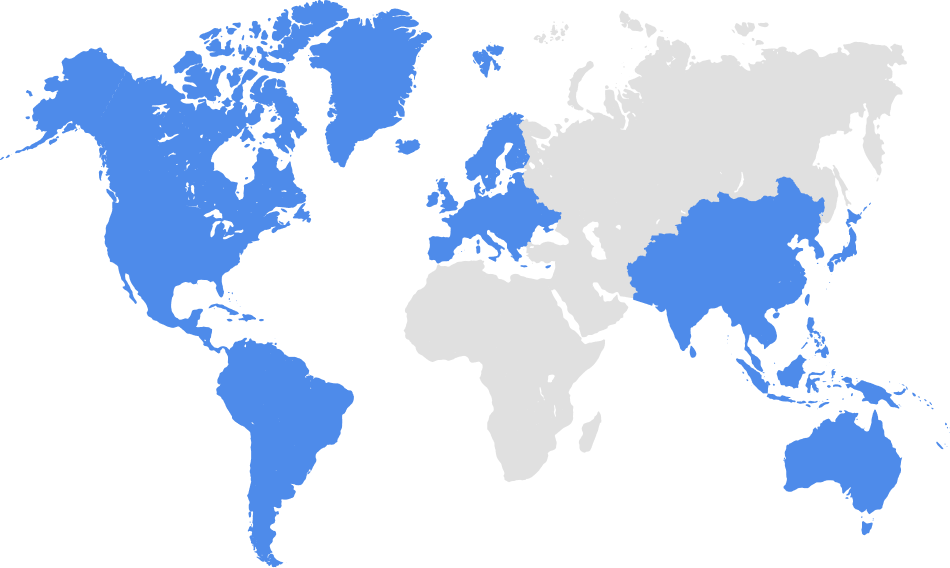
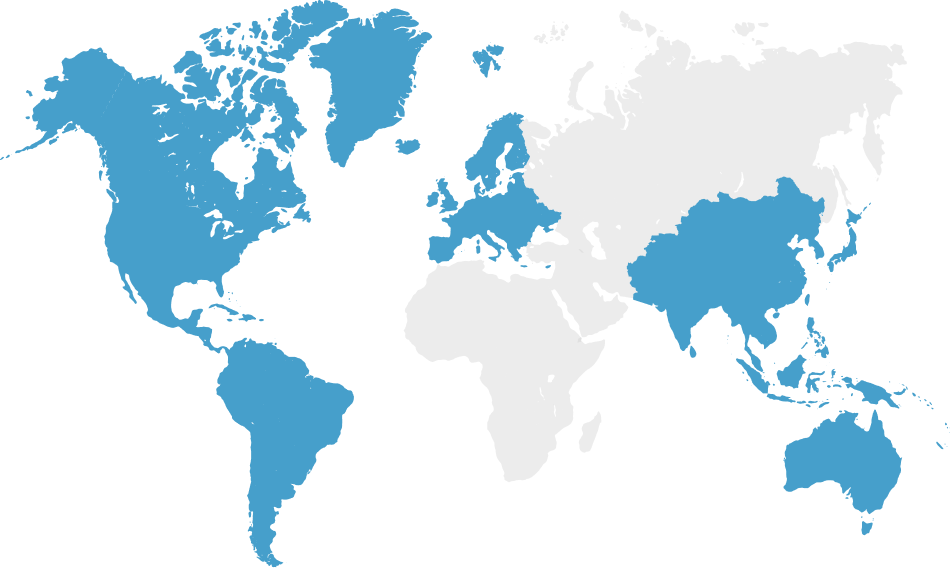
update world map img, change headline on mobile, remove numbers on homepage

diff --git a/src/assets/scss/responsive/_key-findings.scss b/src/assets/scss/responsive/_key-findings.scss
@@ -1,18 +1,4 @@
 @media (max-width: 1650px) {
-	
-	.use-cases-2 {
-
-		.img-wrap {
-
-			div {
-				padding-right: 55px;
-			}
-		}
-
-		.text-wrap {
-			max-width: 50%;
-		}
-	}
 
 	.quote-section {
 		
@@ -39,37 +25,6 @@
 			div {
 				display: flex;
 				align-items: center;
-			}
-		}
-	}
-
-	.dev-profiles-1 {
-
-		.img-wrap {
-			padding-top: 0;			
-
-			img {
-				height: 47vw;
-			}
-		}
-	}
-
-	.dev-profiles-2 {
-
-		.img-wrap {
-
-			div {
-				padding-right: 0;
-			}
-		}
-	}
-
-	.use-cases-2 {
-
-		.img-wrap {
-
-			div {
-				padding-right: 0;
 			}
 		}
 	}
@@ -137,13 +92,6 @@
 				display: flex;
 				align-items: flex-end;
 			}
-		}
-	}
-
-	.use-cases-3 {
-
-		.img-wrap {
-			width: 85%;
 		}
 	}
 
@@ -357,52 +305,6 @@
 		}
 	}
 
-	.dev-profiles-2 {
-		padding-bottom: 0;
-
-		.img-wrap {
-
-			img {
-				height: auto;
-				width: 100%;
-			}
-		}
-
-		.text-wrap {
-			margin-bottom: 30px;
-		}
-	}
-
-	.use-cases-2 {
-
-		.img-wrap {
-
-			img {
-				height: auto;
-				width: 100%;
-			}
-		}
-
-		.text-wrap {
-			margin-bottom: 30px;
-		}
-	}
-
-	.use-cases-3 {
-
-		.img-wrap {
-
-			img {
-				height: auto;
-				width: 100%;
-			}
-		}
-
-		.text-wrap {
-			margin-bottom: 30px;
-		}
-	}
-
 	.ecosystem-tools {
 		padding-bottom: 0;
 
@@ -436,6 +338,7 @@
 			}
 		}
 	}
+	
 	.row_section {
 		flex-direction: column;
 		height: 600px;
@@ -465,5 +368,10 @@
 	}
 	.quote-section > div:first-child {
 		padding-bottom: 100px;
+	}
+
+	.info-title {
+		font-size: 35px !important;
+		line-height: 42px !important;
 	}
 }

diff --git a/src/components/Section.js b/src/components/Section.js
@@ -40,7 +40,6 @@ class Section extends Component {
 
     fade = (is_visible) => {
         if (is_visible && this.number.current) {
-            this.number.current.classList.add('fadeIn');
             this.info.current.classList.add('fadeIn');
             this.description.current.classList.add('fadeIn');
         } else if (is_visible && this.text.current) {
@@ -56,11 +55,7 @@ class Section extends Component {
                     <VisibilitySensor partialVisibility={this.props.partialVisibility || false}
                                       onChange={this.fade} minTopValue={this.props.minTopValue} >
                         <div className="text">
-                            <p className={'number ' + (this.props.show_info ? '' : 'animated')}
-                               ref={this.number}
-                               style={this.props.show_info ? {opacity: 1} : {}}>
-                                { this.props.number }
-                            </p>
+                            <p ref={this.number}></p>
                             <p className={'info ' + (this.props.show_info ? '' : 'animated')} ref={this.info}
                                style={this.props.show_info ? {opacity: 1} : {}}>
                                 { this.props.info }

diff --git a/src/assets/scss/pages/_key-findings.scss b/src/assets/scss/pages/_key-findings.scss
@@ -103,66 +103,6 @@
 	}
 }
 
-.dev-profiles-1 {
-
-	.img-wrap {
-		padding-top: 30px;
-	}
-
-	.text-wrap {
-		max-width: 520px;
-		margin-left: auto;
-	}
-}
-
-.dev-profiles-2 {
-
-	.img-wrap {
-
-		div {
-			padding-top: 100px;
-			padding-right: 125px;
-		}
-
-		img {
-			margin-left: auto;
-		}
-	}
-
-	.text-wrap {
-		max-width: 455px;
-	}
-}
-
-.use-cases-2 {
-
-	.img-wrap {
-
-		div {
-			padding-right: 125px;
-		}
-	}
-
-	.text-wrap {
-		max-width: 900px;
-		margin-left: auto;
-	}
-}
-
-.use-cases-3 {
-
-	.img-wrap {
-
-		img {
-			margin-left: auto;
-		}
-	}
-
-	.text-wrap {
-		max-width: 495px;
-	}
-}
-
 .ecosystem-tools {
 	padding-top: 0;
 	padding-bottom: 0;
@@ -247,7 +187,6 @@
 		}
 	}
 }
-
 
 .anim-text {
 	position: fixed;

diff --git a/src/components/KeyFindings.js b/src/components/KeyFindings.js
@@ -98,7 +98,7 @@ class KeyFindings extends Component {
                                             <div className="d-flex animated fadeIn">
                                                 <p className="subtitle">We asked 500 members of the Postgres community about how they’re using the database in 2019. Here's what they said...</p>
                                             </div>
-                                        </Row>
+                                        </Row>``
                                     </Container>
                                 </section>
                                 {/* Intro - End */}

diff --git a/src/assets/scss/components/_forms.scss b/src/assets/scss/components/_forms.scss
@@ -55,12 +55,17 @@
 		font-size: 25px;
 		padding-bottom: 20px;
 		line-height: 141%;
+		font-weight: normal;
 	}
 
 	.text2 {
 		font-size: 14px;
 		line-height: 154%;
-		padding-bottom: 20px;
+		padding-bottom: 15px;
+	}
+
+	button {
+		font-size: 16px !important;
 	}
 
 }
